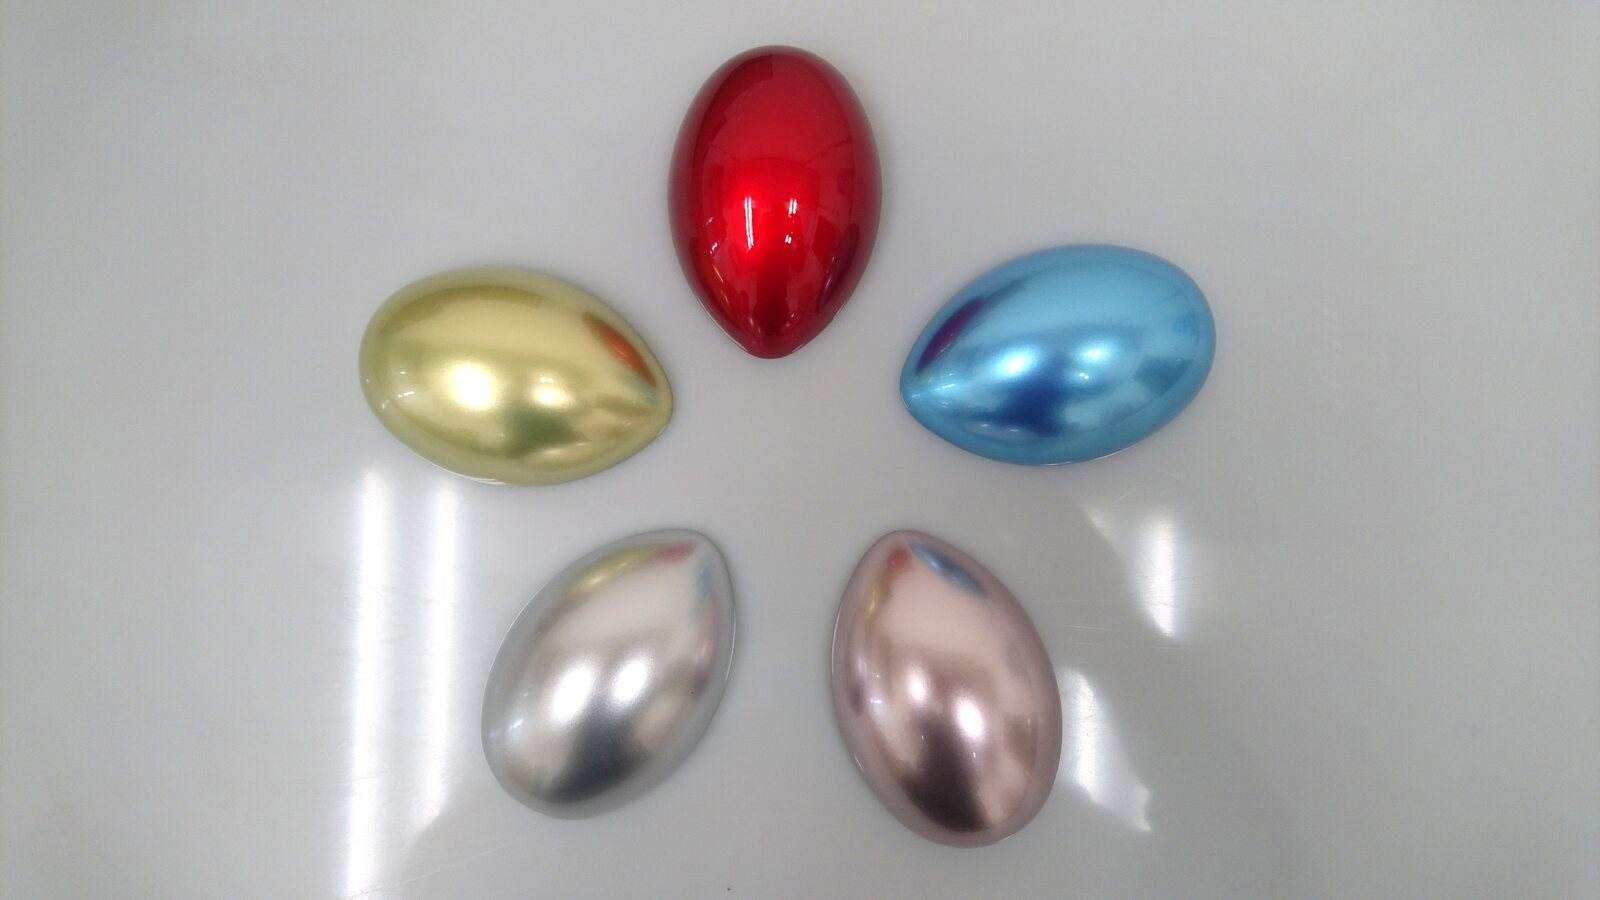
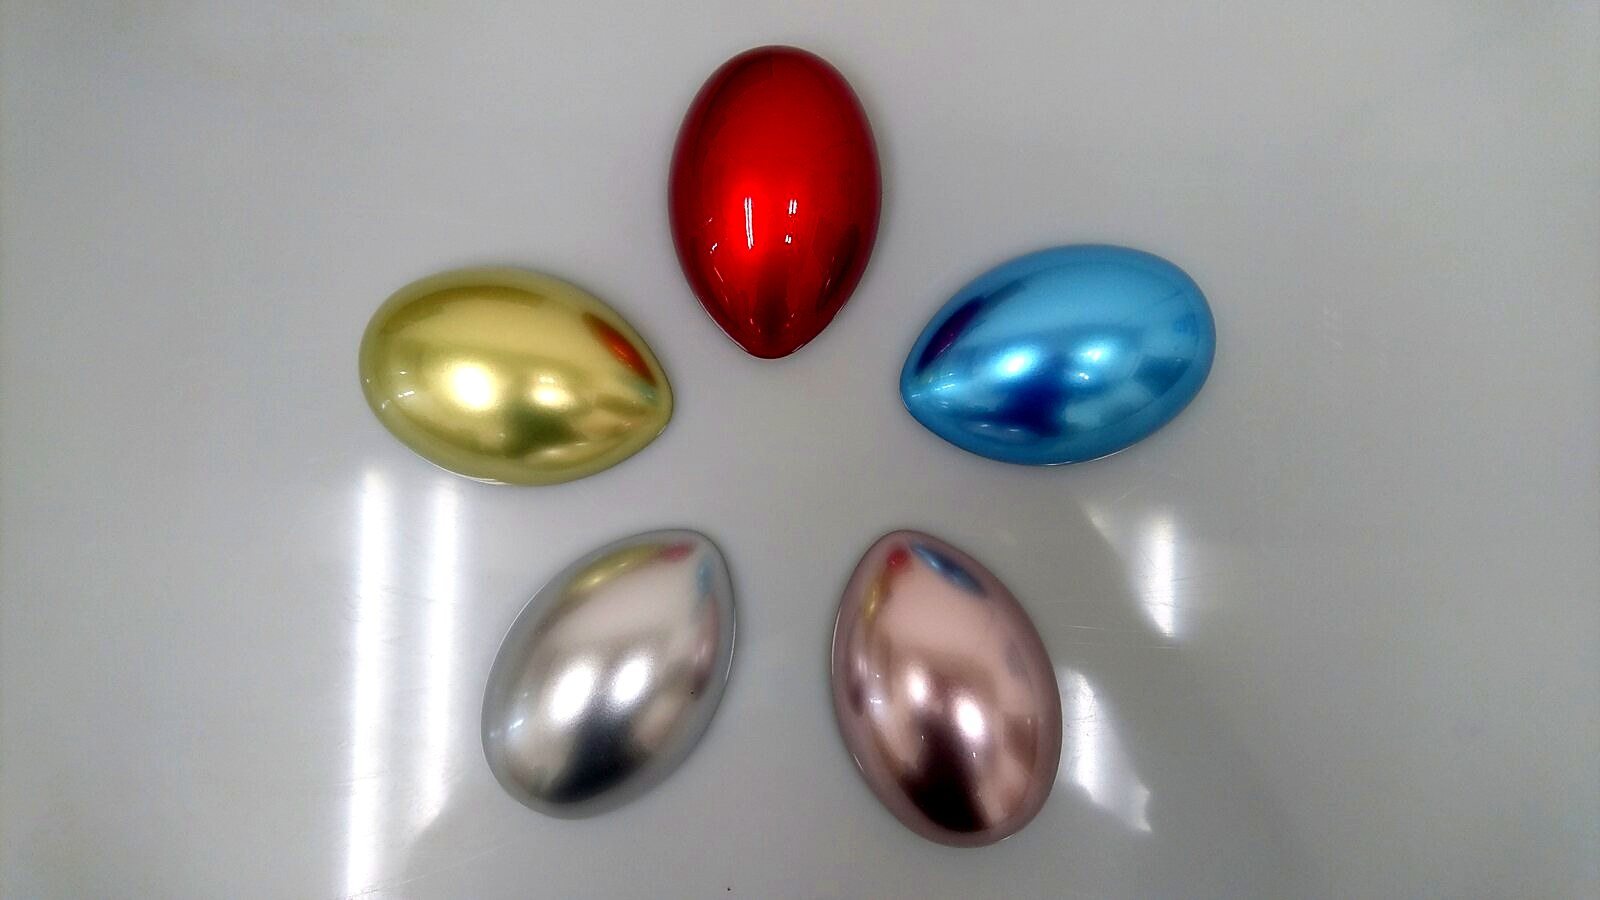
既存写真のトーン補正と容量最適化
写っている内容は変更せず、見え方と読み込み負荷のみを改善。

- 参照中の既存写真26枚にレベル補正・彩度/コントラスト微増・アンシャープマスクを適用し、
  高品質JPEGで再保存（元が低品質JPEGのため再圧縮劣化を抑制）
- 表示サイズに対して過大だった画像の長辺を1920pxに制限
  modeling-06: 1586KB -> 311KB / modeling-07: 1886KB -> 393KB / design-06: 512KB -> 245KB
- design-07-display を PNG(1569KB) から JPEG(243KB) に変換し、
  industrial-design.html とテストの参照を更新
- 合計で約4.3MBの削減

Claude-Session: https://claude.ai/code/session_01Xd94FH7f7pz66F3SJYJcKB

Changed region(s): [[0.2188, 0.0311, 0.9688, 1.0], [0.3125, 0.56, 0.4688, 0.9333]]

diff --git a/tests/art-shimoura.spec.js b/tests/art-shimoura.spec.js
@@ -136,7 +136,7 @@ test("renders the Art Shimoura site without broken assets", async ({ page }, tes
       const sketchRotator = rotatorImages.nth(1);
       await expect(productRotator).toHaveAttribute(
         "data-rotator-images",
-        /^\.\/assets\/images\/services\/design\/design-01-display\.jpg\|\.\/assets\/images\/services\/design\/design-02-display\.jpg\|\.\/assets\/images\/services\/design\/design-06-display\.jpg\|\.\/assets\/images\/services\/design\/design-07-display\.png\|\.\/assets\/images\/services\/design\/design-08-display\.jpg\|\.\/assets\/images\/services\/design\/design-03-display\.jpg$/
+        /^\.\/assets\/images\/services\/design\/design-01-display\.jpg\|\.\/assets\/images\/services\/design\/design-02-display\.jpg\|\.\/assets\/images\/services\/design\/design-06-display\.jpg\|\.\/assets\/images\/services\/design\/design-07-display\.jpg\|\.\/assets\/images\/services\/design\/design-08-display\.jpg\|\.\/assets\/images\/services\/design\/design-03-display\.jpg$/
       );
       await expect(sketchRotator).toHaveAttribute("data-rotator-images", /design-04-display\.jpg/);
       await expect(sketchRotator).toHaveAttribute("data-rotator-images", /design-05-display\.jpg/);

diff --git a/industrial-design.html b/industrial-design.html
@@ -109,7 +109,7 @@
                 src="./assets/images/services/design/design-01-display.jpg"
                 alt="工業デザインモデルCG"
                 data-rotator-image
-                data-rotator-images="./assets/images/services/design/design-01-display.jpg|./assets/images/services/design/design-02-display.jpg|./assets/images/services/design/design-06-display.jpg|./assets/images/services/design/design-07-display.png|./assets/images/services/design/design-08-display.jpg|./assets/images/services/design/design-03-display.jpg"
+                data-rotator-images="./assets/images/services/design/design-01-display.jpg|./assets/images/services/design/design-02-display.jpg|./assets/images/services/design/design-06-display.jpg|./assets/images/services/design/design-07-display.jpg|./assets/images/services/design/design-08-display.jpg|./assets/images/services/design/design-03-display.jpg"
                 data-rotator-alts="工業デザインモデルCG 1|工業デザインモデルCG 2|工業デザインモデルCG 3|工業デザインモデルCG 4|工業デザインモデルCG 5|工業デザインモデルCG 6"
               />
             </figure>
